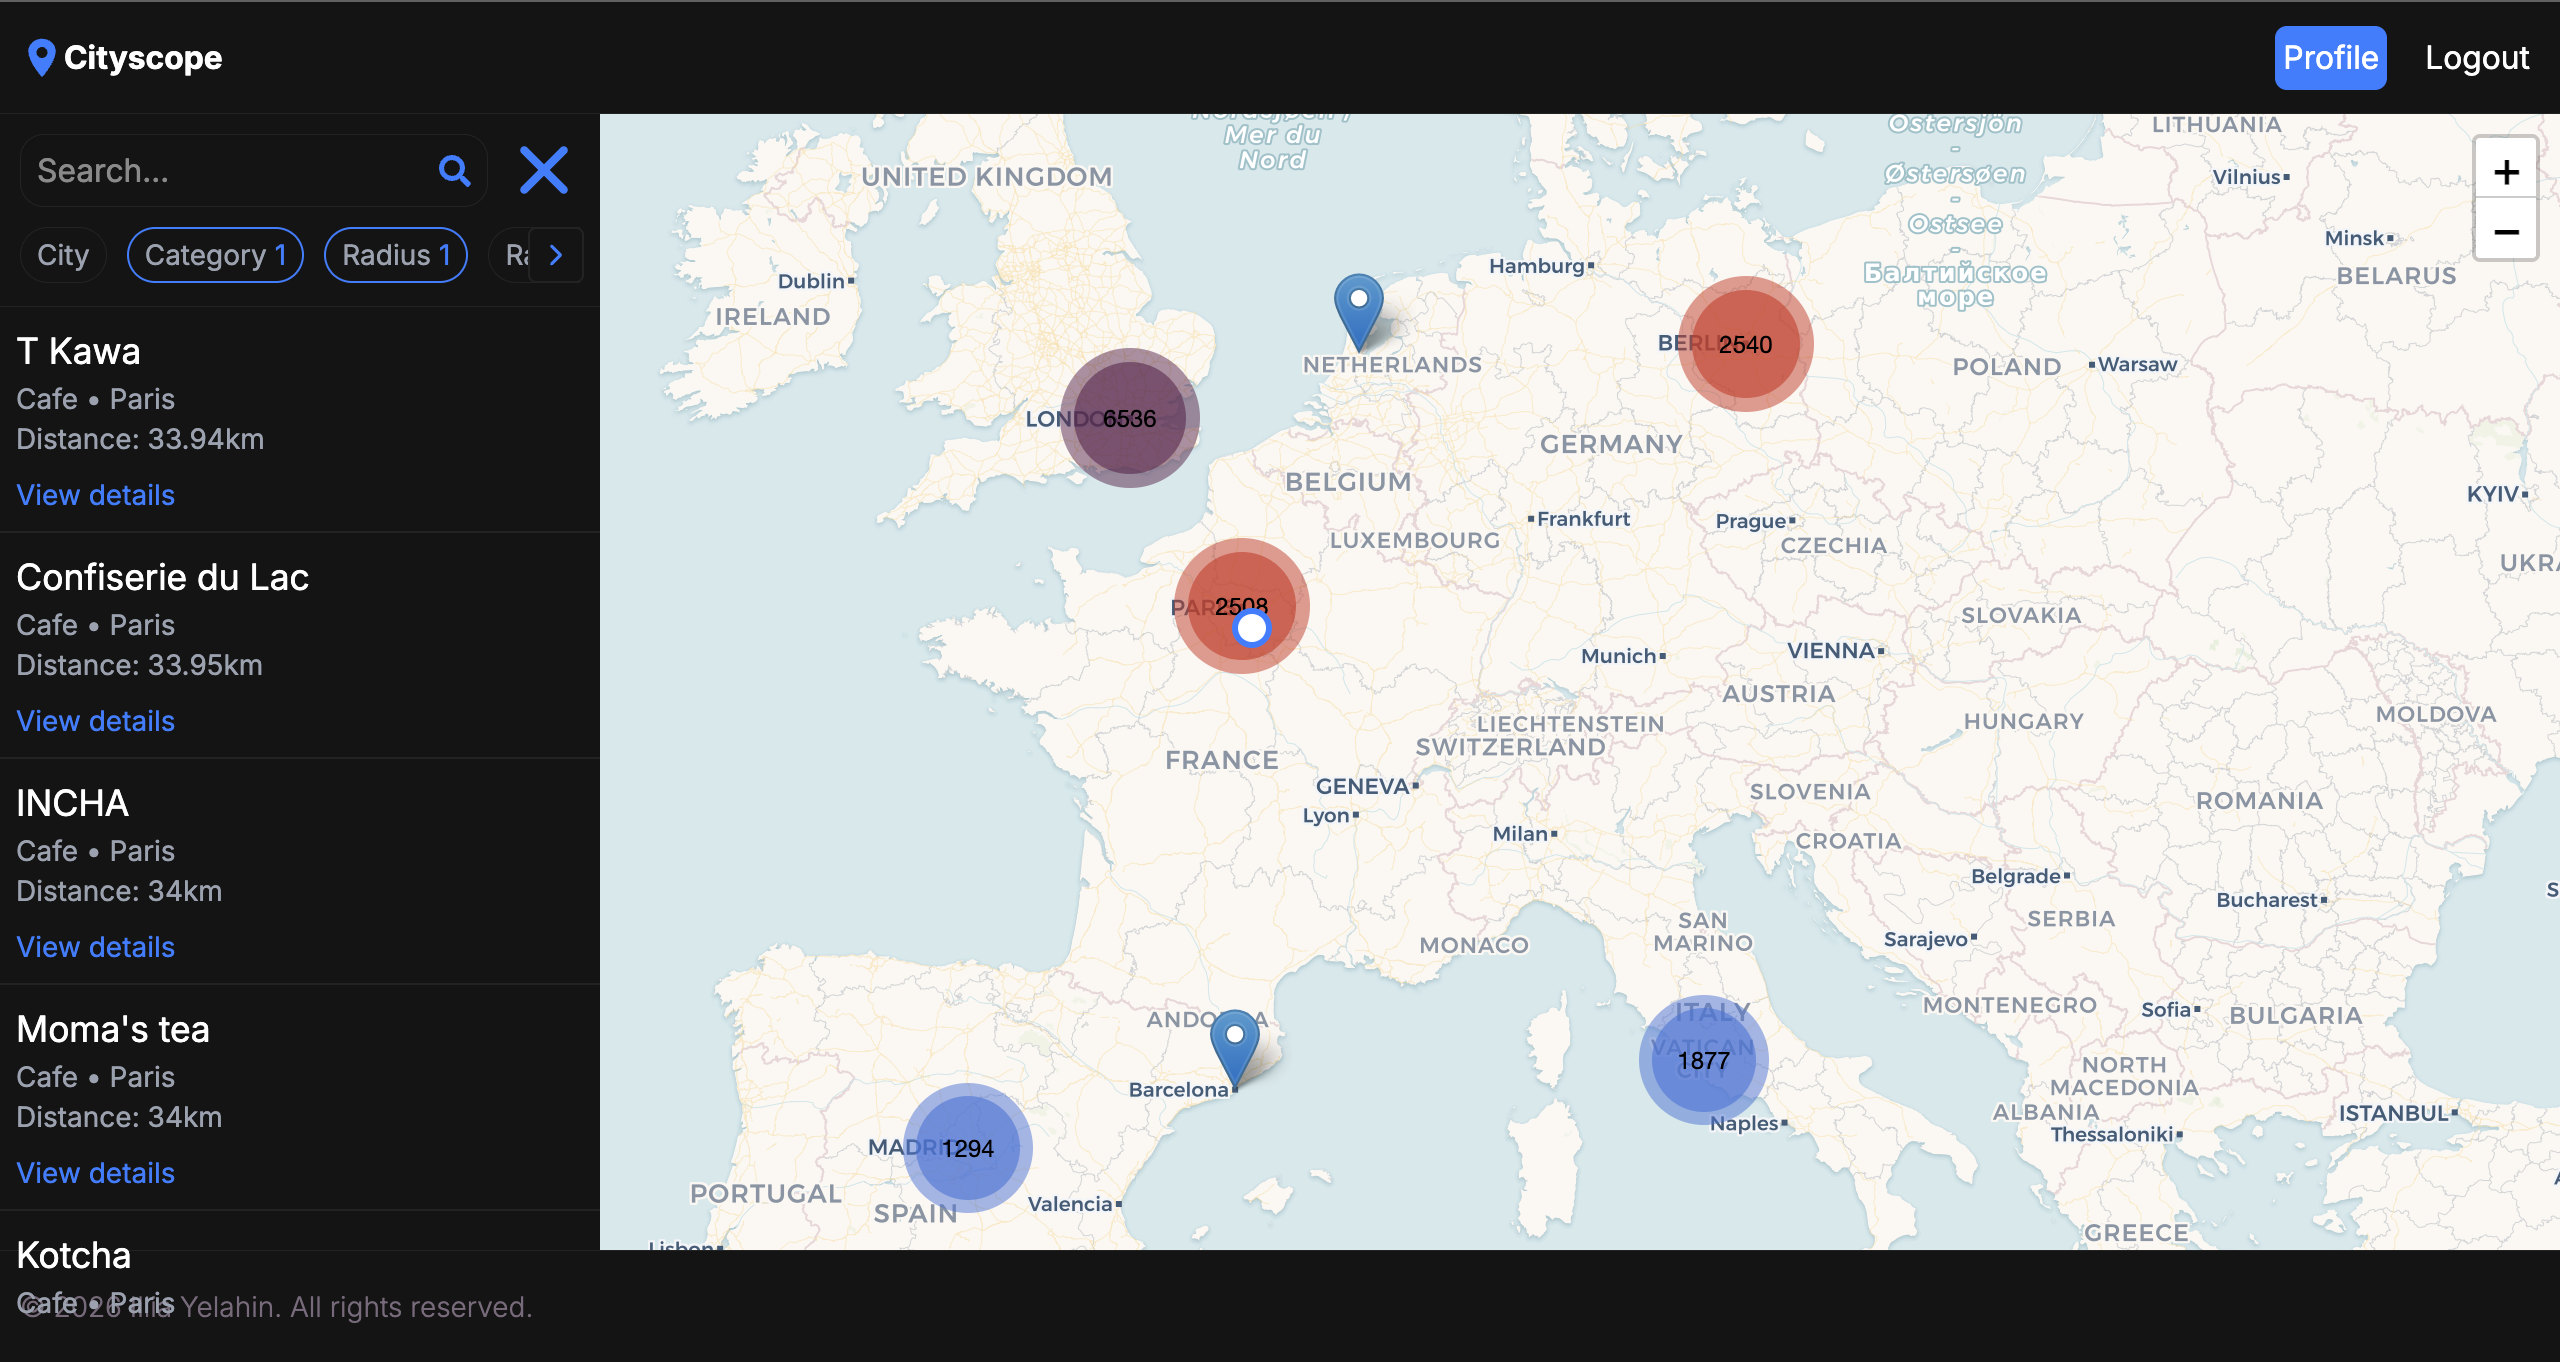
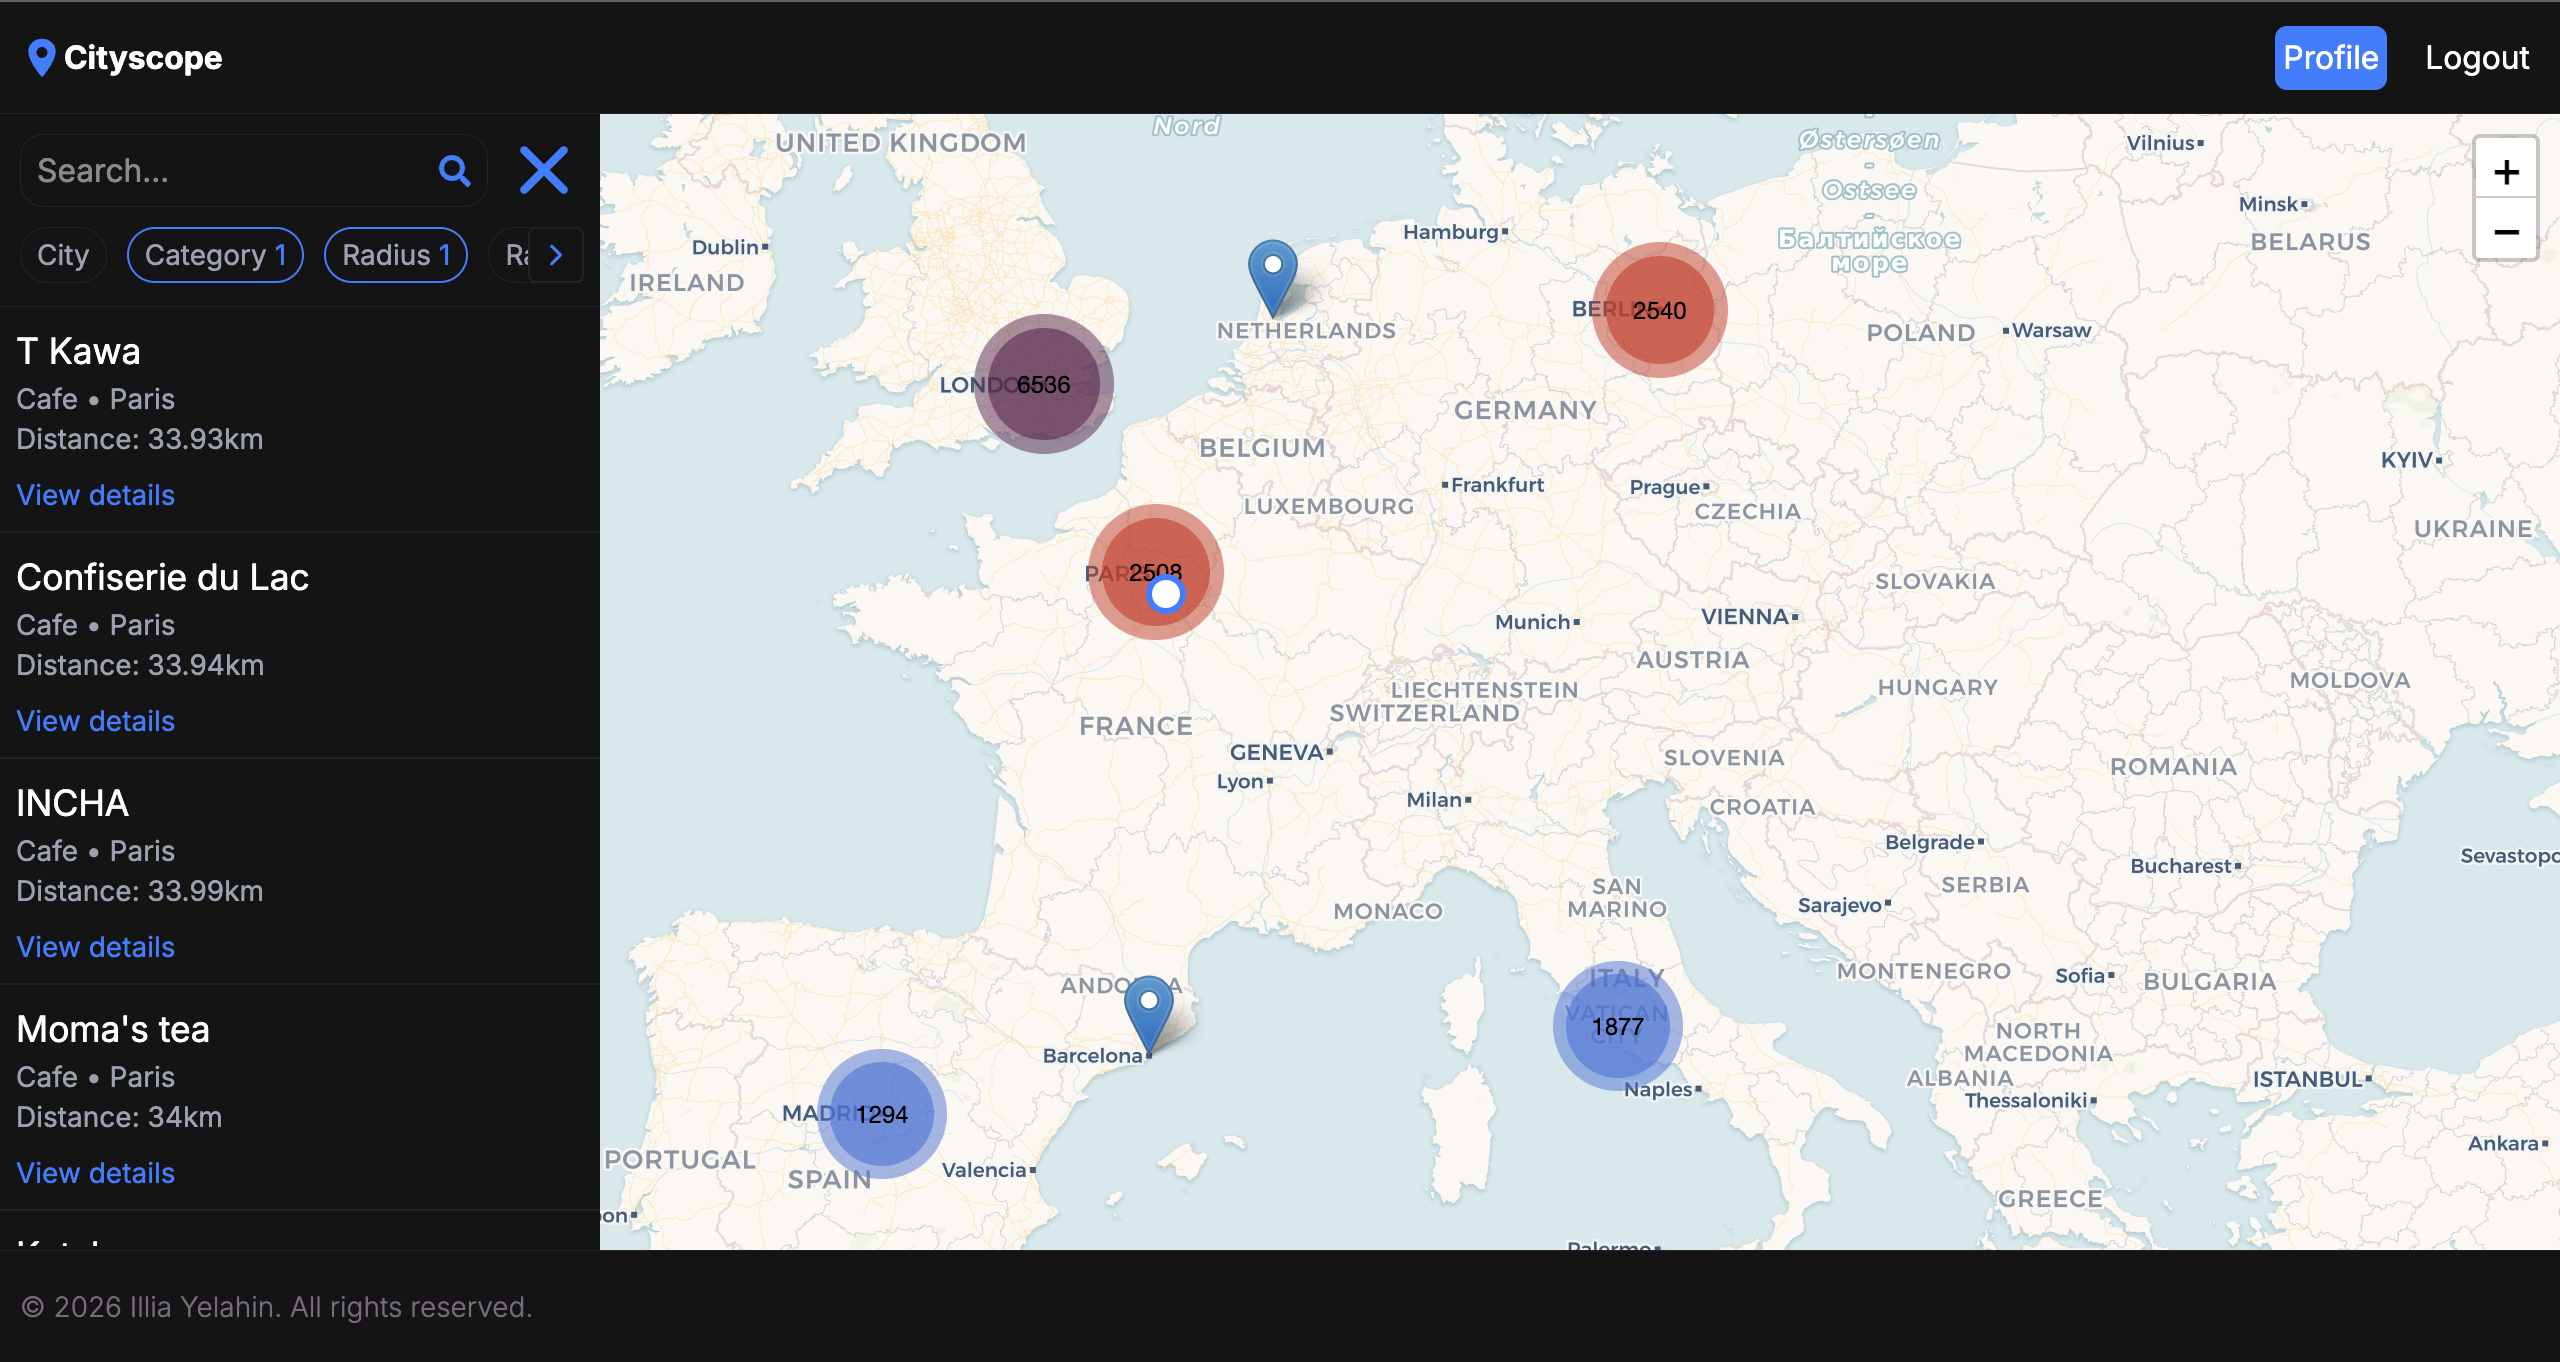
fix: fix small ui issues and readme screenshot

diff --git a/frontend/app/error.tsx b/frontend/app/error.tsx
@@ -3,7 +3,7 @@
 import { PrimaryButtonLink } from "./ui/PrimaryButton";
 import { OutlineButton } from "./ui/OutlineButton";
 
-export default function Error ({ error, reset }: {error: Error, reset: () => void}) {
+export default function Error ({ reset }: {reset: () => void}) {
     return (
         <div className="h-main-content flex flex-col justify-center items-center">
             <h1 className="text-3xl xl:text-7xl lg:text-6xl md:text-5xl sm:text-4xl font-bold font-mono [-webkit-text-stroke:1px_var(--color-secondary)] text-transparent mb-5">Something went wrong!</h1>

diff --git a/frontend/app/ui/MapList.tsx b/frontend/app/ui/MapList.tsx
@@ -64,7 +64,7 @@ export default function MapList ({places, onPlaceClick, isLoading, error}: {
             )
         } else {
             return (
-                <ul className="mt-24 w-full h-[calc(var(--height-main-content)-var(--height-header))] overflow-auto overscroll-contain">
+                <ul className="mt-24 w-full h-[calc(var(--height-main-content)-calc(var(--height-header)*1.75))] overflow-auto overscroll-contain">
                     <InfiniteScroll 
                         dataLength={displayCount} 
                         next={fetchMoreData} 

diff --git a/frontend/app/ui/OpeningStatusFilter.tsx b/frontend/app/ui/OpeningStatusFilter.tsx
@@ -2,7 +2,6 @@ import { IoCheckmark } from "react-icons/io5"
 import List from "./List"
 import ListItem from "./ListItem"
 import { useState, Dispatch, SetStateAction } from "react"
-import StarRating from "./StarRatings";
 import { PrimaryButton } from "./PrimaryButton";
 import { useRouter, useSearchParams } from "next/navigation";
 import { SecondaryButton } from "./SecondaryButton";

diff --git a/frontend/app/global-error.tsx b/frontend/app/global-error.tsx
@@ -3,7 +3,7 @@
 import { PrimaryButtonLink } from "./ui/PrimaryButton";
 import { OutlineButton } from "./ui/OutlineButton";
 
-export default function Error ({ error, reset }: {error: Error, reset: () => void}) {
+export default function Error ({ reset }: {reset: () => void}) {
     return (
         <html>
             <body>
